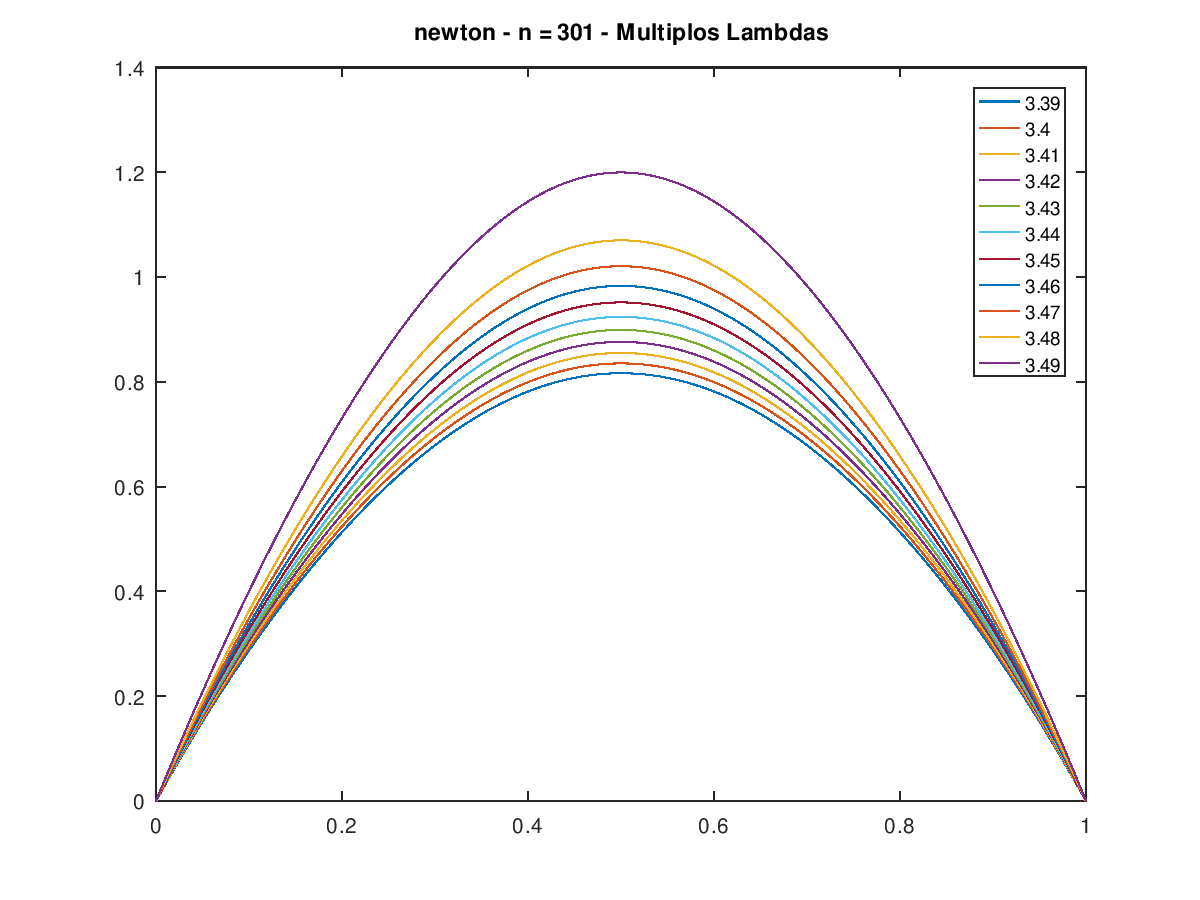
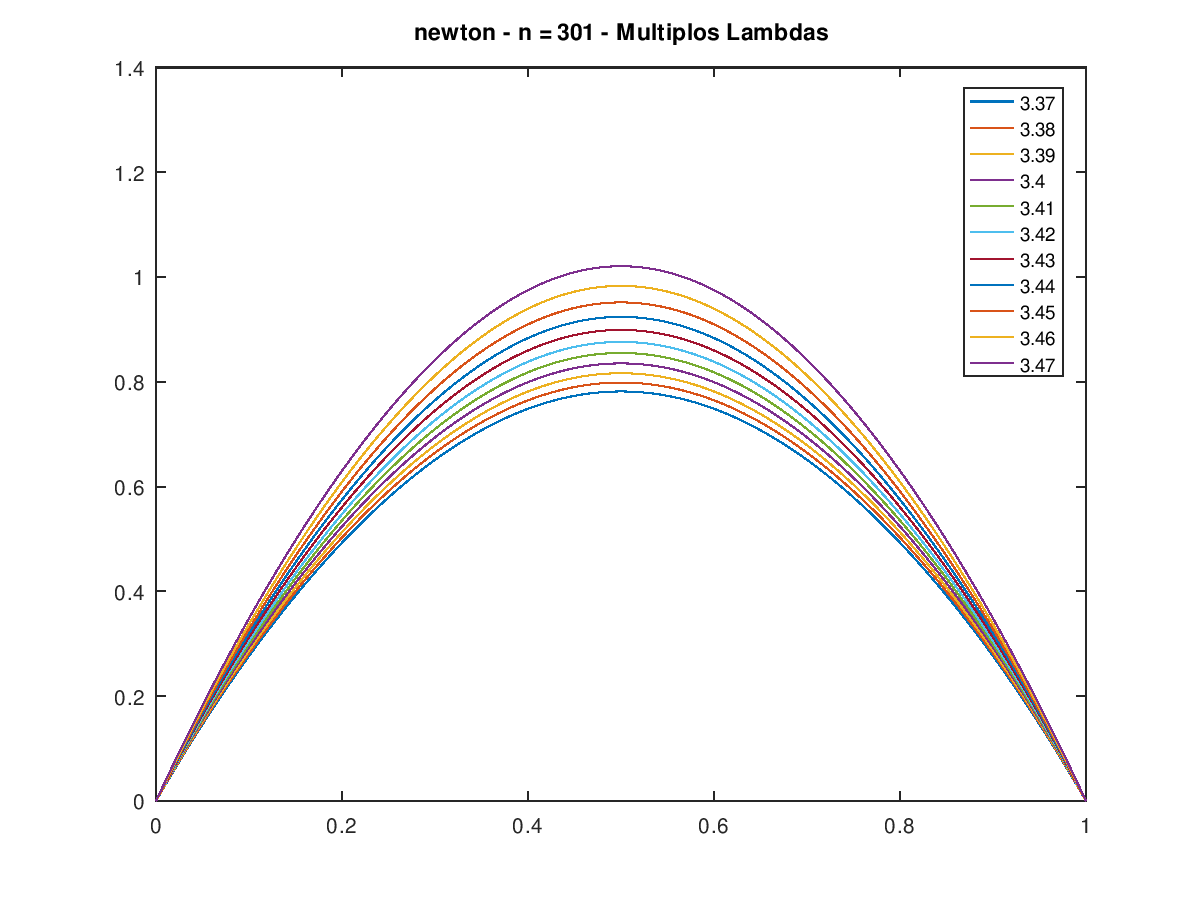
gráficos com múltiplos lambda para outros métodos

Changed region(s): [[0.1233, 0.28, 0.8942, 0.8711], [0.8017, 0.0933, 0.8942, 0.4356]]

diff --git a/exe7/main.m b/exe7/main.m
@@ -8,20 +8,20 @@ LAMBDA = 3.4647;
 tol = 1e-7;
 itmax = 100;
 
-tams = [301]; % 11 301 501
+tams = [501]; % 11 301 501
 
 metodos = {
-    % "mas"          @mas;
+    "mas"          @mas;
     "newton"       @newton;
-    % "newtonmod"    @newton_mod;
-    % "newtonaprox"  @newton_aprox;
+    "newtonmod"    @newton_mod;
+    "newtonaprox"  @newton_aprox;
 };
 
-% PARA O GRÁFICO DE DISTÂNCIAS DOS PICOS
-lambdas = linspace(3.46, 3.47, 11);
+% % PARA O GRÁFICO DE DISTÂNCIAS DOS PICOS
+% lambdas = linspace(3.46, 3.47, 11);
 
-% % PARA O GRÁFICO COM VÁRIOS VALORES DE LAMBDA
-% lambdas = linspace(3.39, 3.49, 11);
+% PARA O GRÁFICO COM VÁRIOS VALORES DE LAMBDA
+lambdas = linspace(3.37, 3.47, 11);
 
 for n = tams
     n
@@ -76,20 +76,20 @@ for n = tams
         endfor
         printf("\n");
 
-        % GRÁFICO DE DISTÂNCIAS DOS PICOS
-        semilogy(lambdas, dists);
-        title([metname " - " "n = " num2str(n) " - " "|max(u) - 1| x lambda"]);
-        xlabel("\\lambda");
-        ylabel("|max(u) - 1|");
-        mkdir("plot/lambda_maxu/");
-        grava_grafico([ "plot/lambda_maxu/" metname "_" num2str(n) ], "png");
+        % % GRÁFICO DE DISTÂNCIAS DOS PICOS
+        % semilogy(lambdas, dists);
+        % title([metname " - " "n = " num2str(n) " - " "|max(u) - 1| x lambda"]);
+        % xlabel("\\lambda");
+        % ylabel("|max(u) - 1|");
+        % mkdir("plot/lambda_maxu/");
+        % grava_grafico([ "plot/lambda_maxu/" metname "_" num2str(n) ], "png");
 
-        % % GRÁFICO PARA VÁRIOS VALORES DE LAMBDA
-        % plot(resultados{2:3, :});
-        % legend(legs{:});
-        % title([metname " - " "n = " num2str(n) " - " "Multiplos Lambdas"]);
-        % mkdir("plot/lambdas/");
-        % grava_grafico([ "plot/lambdas/" metname "_" num2str(n) "_" "lambdas" ], "png");
+        % GRÁFICO PARA VÁRIOS VALORES DE LAMBDA
+        plot(resultados{2:3, :});
+        legend(legs{:});
+        title([metname " - " "n = " num2str(n) " - " "Multiplos Lambdas"]);
+        mkdir("plot/lambdas/");
+        grava_grafico([ "plot/lambdas/" metname "_" num2str(n) "_" "lambdas" ], "png");
 
     endfor
     printf("\n");
